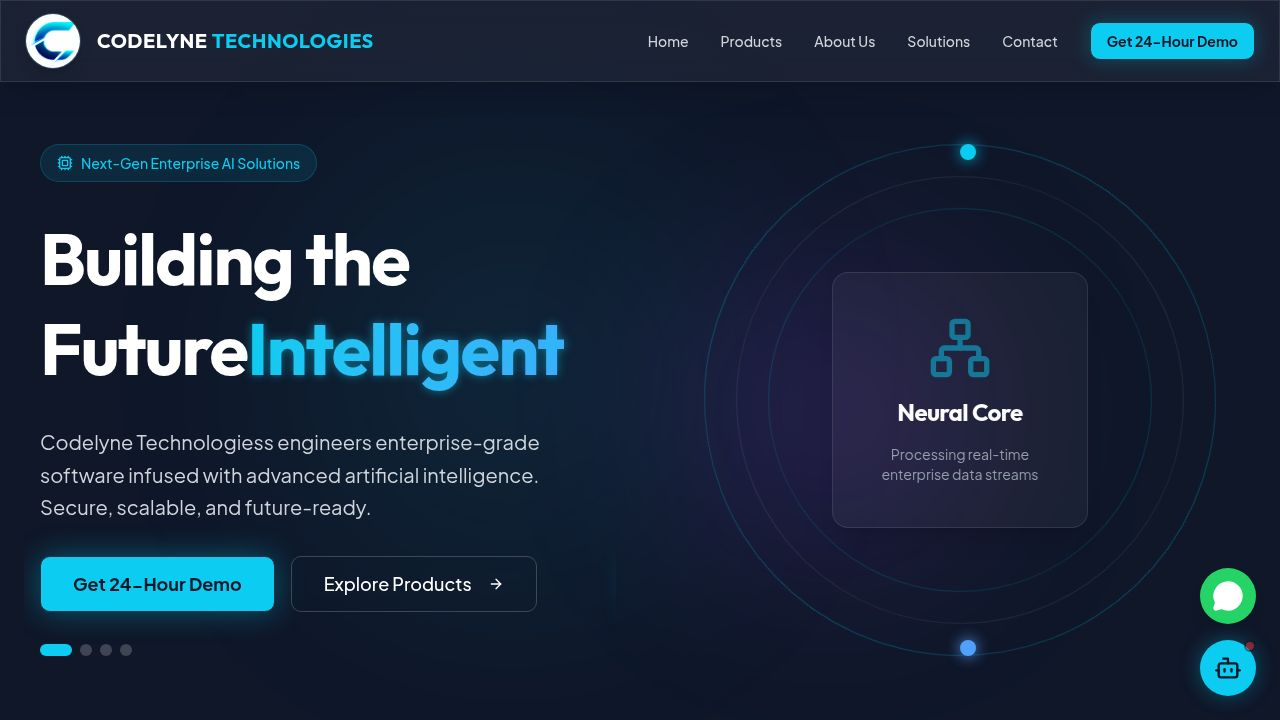
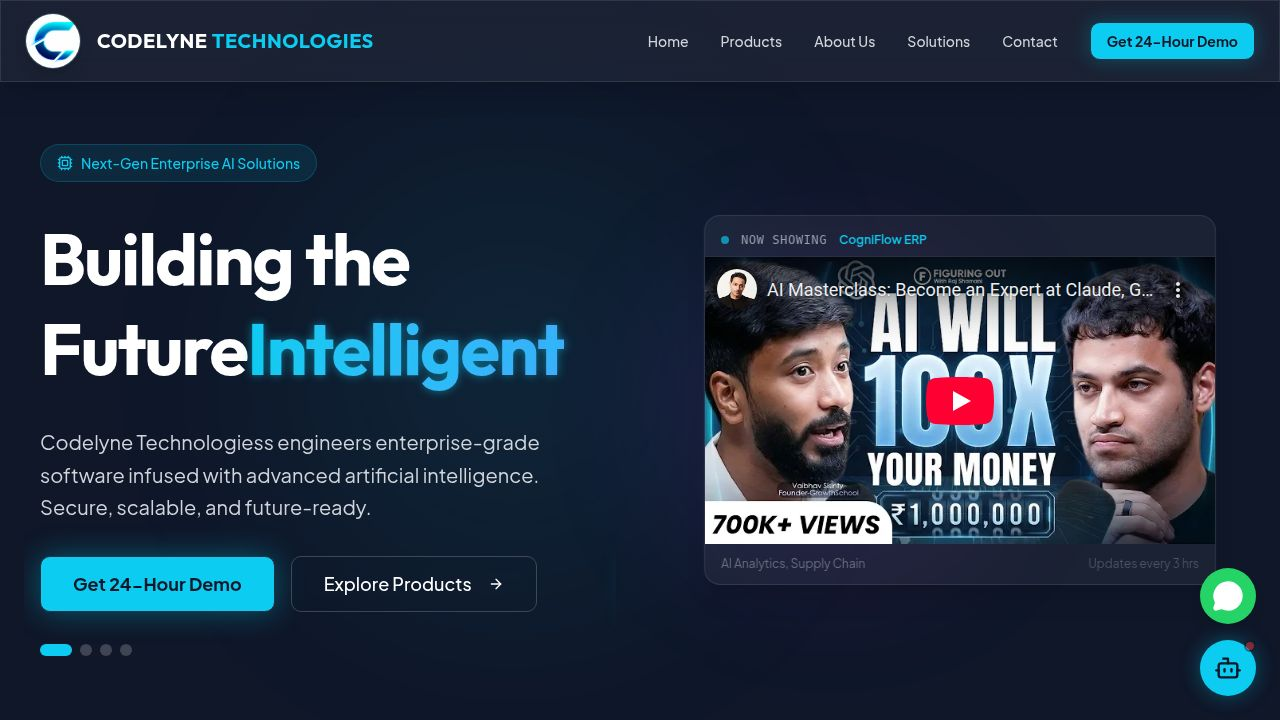
Add product videos to the dashboard that rotate every three hours
Replace the "Neural Core" visual on the Hero component with a dynamically loaded and rotating product video player, supporting YouTube embeds and other video links.

Replit-Commit-Author: Agent
Replit-Commit-Session-Id: 6abdf02e-4ef6-4e06-98c9-7a5417f1c63b
Replit-Commit-Checkpoint-Type: full_checkpoint
Replit-Commit-Event-Id: 7599e53b-a5c3-44d1-9693-6901e8535801
Replit-Commit-Screenshot-Url: https://storage.googleapis.com/screenshot-production-us-central1/abbfe1ff-ba0e-4b95-99d2-ca292dcd6c9f/6abdf02e-4ef6-4e06-98c9-7a5417f1c63b/I1u9zZ0
Replit-Helium-Checkpoint-Created: true

Changed region(s): [[0.5312, 0.3056, 0.9688, 0.7944], [0.75, 0.1833, 0.7812, 0.2444], [0.7188, 0.8861, 0.7812, 0.9167]]

diff --git a/client/src/components/sections/Hero.tsx b/client/src/components/sections/Hero.tsx
@@ -1,11 +1,28 @@
 import { Button } from "@/components/ui/button";
-import { ArrowRight, Cpu, Network, ShieldCheck, Globe, Database } from "lucide-react";
+import { ArrowRight, Cpu, Network, ShieldCheck, Globe, Database, Play } from "lucide-react";
 import heroVideo from "@assets/generated_videos/abstract_ai_neural_network_background_video.mp4";
 import Autoplay from "embla-carousel-autoplay";
 import useEmblaCarousel from "embla-carousel-react";
-import { useEffect, useState } from "react";
+import { useEffect, useState, useCallback } from "react";
 import { cn } from "@/lib/utils";
 import { DemoModal } from "@/components/ui/DemoModal";
+import { useProducts } from "@/hooks/useProducts";
+
+function getYouTubeEmbedUrl(url: string): string | null {
+  const patterns = [
+    /(?:youtube\.com\/watch\?v=|youtu\.be\/|youtube\.com\/embed\/)([a-zA-Z0-9_-]{11})/,
+    /youtube\.com\/shorts\/([a-zA-Z0-9_-]{11})/,
+  ];
+  for (const p of patterns) {
+    const m = url.match(p);
+    if (m) return `https://www.youtube.com/embed/${m[1]}?rel=0&modestbranding=1&showinfo=0`;
+  }
+  return null;
+}
+
+function getThreeHourSlotIndex(total: number): number {
+  return Math.floor(Date.now() / (3 * 60 * 60 * 1000)) % total;
+}
 
 const slides = [
   {
@@ -45,6 +62,25 @@ const slides = [
 export function Hero() {
   const [emblaRef, emblaApi] = useEmblaCarousel({ loop: true }, [Autoplay({ delay: 5000 })]);
   const [selectedIndex, setSelectedIndex] = useState(0);
+  const { products } = useProducts();
+
+  const videoproducts = products.filter(p => p.videoUrl && p.status === "active");
+
+  const [videoSlotIndex, setVideoSlotIndex] = useState(() =>
+    videoproducts.length > 0 ? getThreeHourSlotIndex(videoproducts.length) : 0
+  );
+
+  useEffect(() => {
+    if (videoproducts.length === 0) return;
+    setVideoSlotIndex(getThreeHourSlotIndex(videoproducts.length));
+    const timer = setInterval(() => {
+      setVideoSlotIndex(getThreeHourSlotIndex(videoproducts.length));
+    }, 60 * 1000);
+    return () => clearInterval(timer);
+  }, [videoproducts.length]);
+
+  const currentVideoProduct = videoproducts.length > 0 ? videoproducts[videoSlotIndex % videoproducts.length] : null;
+  const currentEmbedUrl = currentVideoProduct?.videoUrl ? getYouTubeEmbedUrl(currentVideoProduct.videoUrl) : null;
 
   useEffect(() => {
     if (!emblaApi) return;
@@ -140,25 +176,65 @@ export function Hero() {
           </div>
         </div>
 
-        {/* Right Side Visual - Consistent across slides but could be dynamic */}
+        {/* Right Side Visual - Product Video Player */}
         <div className="relative hidden md:flex justify-center items-center animate-in slide-in-from-right-10 fade-in duration-1000">
-          <div className="relative w-full max-w-lg aspect-square">
-            {/* Central Holographic UI Element - CSS constructed */}
-            <div className="absolute inset-0 border border-primary/30 rounded-full animate-[spin_10s_linear_infinite]" />
-            <div className="absolute inset-8 border border-white/10 rounded-full animate-[spin_15s_linear_infinite_reverse]" />
-            <div className="absolute inset-16 border border-primary/20 rounded-full animate-[spin_20s_linear_infinite]" />
-            
-            <div className="absolute inset-0 flex items-center justify-center">
-              <div className="glass-card p-8 rounded-2xl w-64 h-64 flex flex-col items-center justify-center text-center gap-4 relative z-20 border-primary/30 shadow-[0_0_50px_rgba(6,182,212,0.15)] backdrop-blur-xl">
-                 <Network className="w-16 h-16 text-primary animate-pulse" />
-                 <h3 className="text-2xl font-heading font-bold text-white">Neural Core</h3>
-                 <p className="text-sm text-gray-400">Processing real-time enterprise data streams</p>
+          <div className="relative w-full max-w-lg">
+            {currentVideoProduct && currentEmbedUrl ? (
+              <div className="glass-card rounded-2xl overflow-hidden border border-primary/30 shadow-[0_0_50px_rgba(6,182,212,0.15)]">
+                <div className="px-4 pt-4 pb-2 flex items-center gap-3 border-b border-white/5">
+                  <div className="w-2 h-2 rounded-full bg-primary animate-pulse" />
+                  <span className="text-xs font-mono text-gray-400 uppercase tracking-wider">Now Showing</span>
+                  <span className="text-xs text-primary font-semibold truncate">{currentVideoProduct.name}</span>
+                </div>
+                <div className="relative w-full" style={{ paddingBottom: "56.25%" }}>
+                  <iframe
+                    key={currentVideoProduct.id}
+                    src={currentEmbedUrl}
+                    className="absolute inset-0 w-full h-full"
+                    allow="accelerometer; autoplay; clipboard-write; encrypted-media; gyroscope; picture-in-picture"
+                    allowFullScreen
+                    loading="eager"
+                    title={currentVideoProduct.name}
+                  />
+                </div>
+                <div className="px-4 py-3 flex items-center justify-between">
+                  <p className="text-xs text-gray-500">{currentVideoProduct.tagline}</p>
+                  <span className="text-xs text-gray-600">Updates every 3 hrs</span>
+                </div>
               </div>
-            </div>
-
-            {/* Orbiting nodes */}
-            <div className="absolute top-0 left-1/2 w-4 h-4 bg-primary rounded-full shadow-[0_0_15px_rgba(6,182,212,1)]" />
-            <div className="absolute bottom-0 left-1/2 w-4 h-4 bg-blue-400 rounded-full shadow-[0_0_15px_rgba(96,165,250,1)]" />
+            ) : currentVideoProduct && !currentEmbedUrl ? (
+              <div className="glass-card rounded-2xl overflow-hidden border border-primary/30 shadow-[0_0_50px_rgba(6,182,212,0.15)]">
+                <div className="px-4 pt-4 pb-2 flex items-center gap-3 border-b border-white/5">
+                  <div className="w-2 h-2 rounded-full bg-primary animate-pulse" />
+                  <span className="text-xs font-mono text-gray-400 uppercase tracking-wider">Featured Product</span>
+                </div>
+                <a href={currentVideoProduct.videoUrl!} target="_blank" rel="noopener noreferrer"
+                  className="flex flex-col items-center justify-center gap-4 p-12 hover:bg-white/5 transition-colors group">
+                  <div className="w-16 h-16 rounded-full bg-primary/20 border border-primary/40 flex items-center justify-center group-hover:scale-110 transition-transform">
+                    <Play className="w-8 h-8 text-primary" />
+                  </div>
+                  <div className="text-center">
+                    <p className="text-white font-semibold">{currentVideoProduct.name}</p>
+                    <p className="text-xs text-gray-400 mt-1">Click to watch</p>
+                  </div>
+                </a>
+              </div>
+            ) : (
+              <div className="relative w-full max-w-lg aspect-square">
+                <div className="absolute inset-0 border border-primary/30 rounded-full animate-[spin_10s_linear_infinite]" />
+                <div className="absolute inset-8 border border-white/10 rounded-full animate-[spin_15s_linear_infinite_reverse]" />
+                <div className="absolute inset-16 border border-primary/20 rounded-full animate-[spin_20s_linear_infinite]" />
+                <div className="absolute inset-0 flex items-center justify-center">
+                  <div className="glass-card p-8 rounded-2xl w-64 h-64 flex flex-col items-center justify-center text-center gap-4 relative z-20 border-primary/30 shadow-[0_0_50px_rgba(6,182,212,0.15)] backdrop-blur-xl">
+                    <Network className="w-16 h-16 text-primary animate-pulse" />
+                    <h3 className="text-2xl font-heading font-bold text-white">Neural Core</h3>
+                    <p className="text-sm text-gray-400">Processing real-time enterprise data streams</p>
+                  </div>
+                </div>
+                <div className="absolute top-0 left-1/2 w-4 h-4 bg-primary rounded-full shadow-[0_0_15px_rgba(6,182,212,1)]" />
+                <div className="absolute bottom-0 left-1/2 w-4 h-4 bg-blue-400 rounded-full shadow-[0_0_15px_rgba(96,165,250,1)]" />
+              </div>
+            )}
           </div>
         </div>
       </div>
